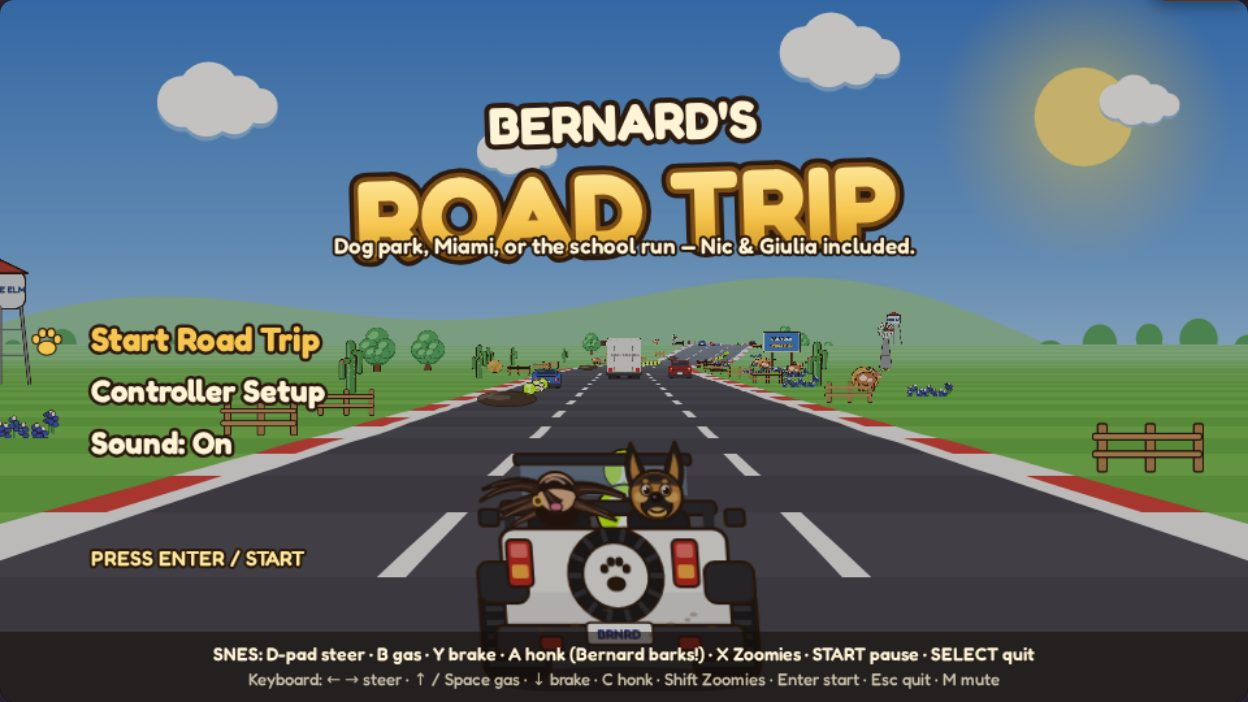
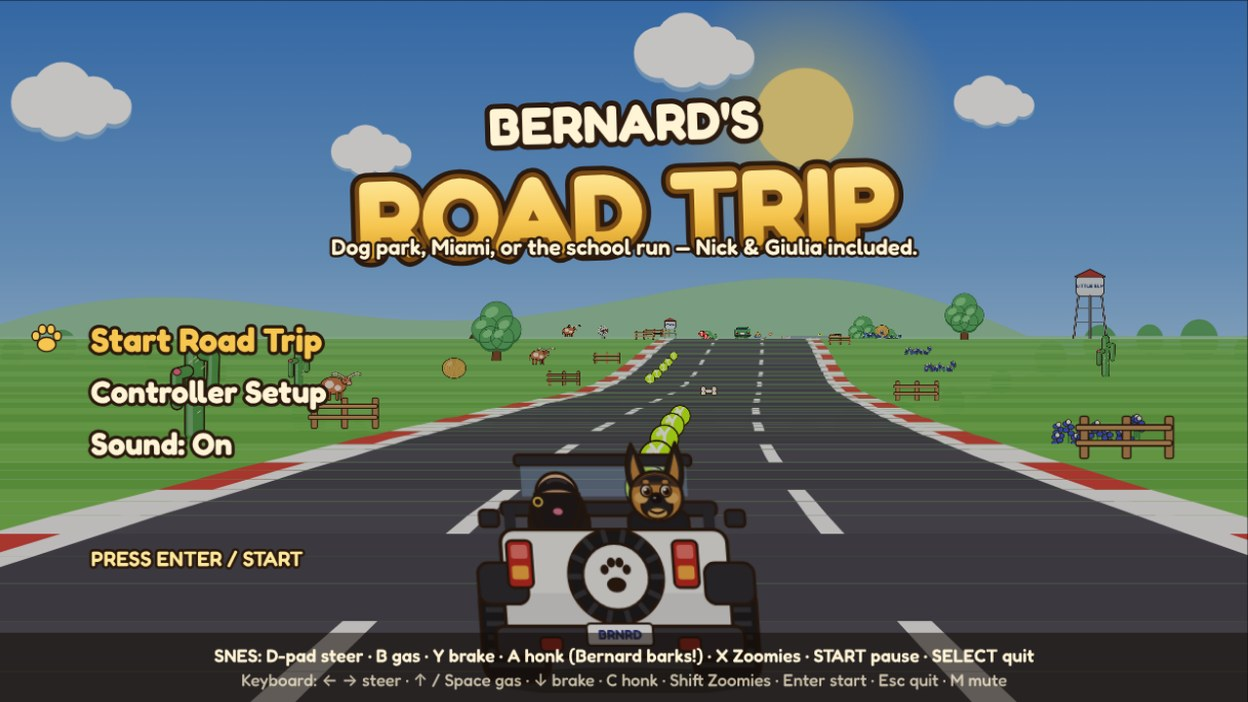
Modern arcade makeover for the home carousel; new Road Trip card; no glare button
- Home screen restyled from the pink/teal neon (Miami) look to a modern
  arcade: graphite hall with an LED dot-matrix wall, soft spotlight beams,
  a light-grid stage floor with a colour strip at the horizon, a Bungee
  marquee with 1P / FREE PLAY tags and EQ-bar LEDs, an RGB-ring avatar,
  and launcher cards with a per-game accent colour, a gradient edge on the
  selected game and a blinking PRESS B TO PLAY pill. Selector dots became
  a segment bar; corner buttons and the controller legend match.
- Effects chosen to be cheap to draw (no per-frame full-screen repaints):
  measured faster than the old lobby. Plain fallbacks for older browsers.
- Road Trip card image re-shot from the current title screen ("Nick",
  no mud puddles).
- Removed the Glare on/off button (left over from an older game).

Claude-Session: https://claude.ai/code/session_017biUWvTQKGySgvkp4fXPyP

diff --git a/styles.css b/styles.css
@@ -803,3 +803,202 @@ body.touch{
 }
 .storydots i.on{background:#c9f24d;box-shadow:0 0 10px #c9f24d}
 
+
+/* =====================================================================
+   MODERN ARCADE LOBBY (Oct 2026)
+   Graphite hall, LED video-wall texture, a glossy light-grid floor and
+   sharp launcher cards with an animated RGB edge on the selected game.
+   Replaces the pink/teal neon (Miami) look. Everything here is CSS: no photo.
+   ===================================================================== */
+:root{
+  --ar-ink:#05070d; --ar-panel:#0d1220; --ar-edge:rgba(160,185,255,.14);
+  --ar-cy:#2de2ff; --ar-lime:#c6ff3d; --ar-sun:#ffd23f; --ar-hot:#ff3d7f; --ar-vi:#9d6bff;
+  --ar-label:"Press Start 2P", ui-monospace, monospace;
+  --ar-sign:Bungee, Fredoka, system-ui, sans-serif;
+}
+@property --ar-ang{ syntax:"<angle>"; inherits:false; initial-value:0deg; }
+body{
+  background:
+    radial-gradient(80% 50% at 50% -10%, rgba(45,226,255,.10) 0%, transparent 60%),
+    radial-gradient(60% 40% at 50% 115%, rgba(157,107,255,.10) 0%, transparent 60%),
+    var(--ar-ink) !important;
+}
+#frame{
+  background:linear-gradient(180deg,#1b2131 0%,#10141f 45%,#0a0d15 100%) !important;
+  box-shadow:0 18px 0 #03040a, 0 28px 50px rgba(0,0,0,.75), 0 0 0 1px rgba(255,255,255,.05),
+             inset 0 1px 0 rgba(255,255,255,.12) !important;
+}
+#frame .stud{ background:radial-gradient(circle at 35% 30%,#8a93a8,#3a4152 60%,#161a24) !important; }
+#stage{ background:var(--ar-ink) !important; box-shadow:inset 0 0 0 1px rgba(255,255,255,.06), inset 0 10px 30px rgba(0,0,0,.6) !important; }
+
+/* ---- the hall */
+#home .scrim{
+  background:
+    conic-gradient(from 148deg at 12% -4%, transparent 0deg 10deg, rgba(45,226,255,.10) 13deg 19deg, transparent 23deg 360deg),
+    conic-gradient(from 193deg at 88% -4%, transparent 0deg 10deg, rgba(198,255,61,.08) 13deg 19deg, transparent 23deg 360deg),
+    conic-gradient(from 170deg at 50% -8%, transparent 0deg 12deg, rgba(157,107,255,.07) 15deg 21deg, transparent 24deg 360deg),
+    radial-gradient(46% 34% at 50% 56%, rgba(255,255,255,.06), transparent 70%),
+    radial-gradient(circle, rgba(130,165,255,.16) 1.1px, transparent 1.8px) 0 0/11px 11px,
+    linear-gradient(180deg,#0d1222 0%,#090c18 60%,#04050a 100%) !important;
+  overflow:hidden;
+}
+/* light-grid floor in perspective, drifting slowly toward you */
+#home .scrim::before{
+  content:""; position:absolute; inset:auto -60% -2% -60%; height:66%;
+  background-image:
+    linear-gradient(rgba(45,226,255,.55) 2px, transparent 2px),
+    linear-gradient(90deg, rgba(45,226,255,.42) 2px, transparent 2px),
+    linear-gradient(180deg, rgba(45,226,255,.10), rgba(4,5,10,.2));
+  background-size:100% 46px, 72px 100%, 100% 100%;
+  background-position:0 0, 50% 0, 0 0;
+  transform:perspective(700px) rotateX(55deg); transform-origin:50% 100%;
+  -webkit-mask-image:linear-gradient(180deg, transparent 0%, rgba(0,0,0,.55) 22%, #000 70%); mask-image:linear-gradient(180deg, transparent 0%, rgba(0,0,0,.55) 22%, #000 70%);
+  opacity:.9; animation:none !important;
+}
+@keyframes arFloor{ from{ background-position:0 0, 50% 0, 0 0 } to{ background-position:0 46px, 50% 0, 0 0 } }
+/* the floor's far edge glows where it meets the wall */
+/* LED light bars on the back wall: a horizon strip and two side uprights */
+#home .scrim::after{
+  content:""; position:absolute; inset:0; transform:none !important; opacity:1 !important; animation:none !important;
+  background:
+    linear-gradient(90deg, transparent 4%, rgba(45,226,255,.0) 10%, rgba(45,226,255,.55) 30%, rgba(198,255,61,.55) 50%, rgba(255,210,63,.55) 70%, rgba(45,226,255,0) 90%, transparent 96%) 0 79.5%/100% 2px no-repeat,
+    linear-gradient(90deg, transparent, rgba(45,226,255,.10) 30%, rgba(198,255,61,.10) 50%, rgba(255,210,63,.10) 70%, transparent) 0 78.6%/100% 30px no-repeat,
+    linear-gradient(180deg, transparent 8%, rgba(45,226,255,.5) 30%, rgba(157,107,255,.5) 60%, transparent 90%) 3.5% 0/3px 100% no-repeat,
+    linear-gradient(180deg, transparent 8%, rgba(255,61,127,.45) 30%, rgba(255,210,63,.5) 60%, transparent 90%) 96.5% 0/3px 100% no-repeat;
+}
+@keyframes arBars{ 0%,100%{ opacity:.85 } 50%{ opacity:1 } }
+.spill{ top:50%; width:62%; height:62%; filter:blur(10px); opacity:.95; }
+.motes i{ border-radius:1px !important; background:rgba(150,230,255,.7) !important; box-shadow:0 0 6px rgba(45,226,255,.7) !important; }
+.motes i:nth-child(3n){ background:rgba(198,255,61,.7) !important; box-shadow:0 0 6px rgba(198,255,61,.7) !important; }
+.motes i:nth-child(4n){ background:rgba(255,210,63,.75) !important; box-shadow:0 0 6px rgba(255,210,63,.7) !important; }
+
+/* ---- edge LEDs (were round bulbs) */
+.chase i{ width:9px !important; height:3px !important; border-radius:2px !important; background:#151b2b !important; box-shadow:none !important; }
+.chase i.on{ background:var(--ar-cy) !important; box-shadow:0 0 8px var(--ar-cy), 0 0 14px rgba(45,226,255,.5) !important; }
+
+/* ---- the sign */
+.marquee{
+  background:linear-gradient(180deg,#121829,#0a0e19) !important;
+  border:1px solid rgba(255,255,255,.08) !important; border-bottom:3px solid var(--ar-sun) !important;
+  border-radius:14px !important; padding:9px 18px 8px !important; gap:16px !important;
+  box-shadow:0 0 0 1px rgba(45,226,255,.22), 0 10px 26px rgba(0,0,0,.6), 0 6px 22px rgba(255,210,63,.18) !important;
+  animation:none !important;
+}
+.marquee::before,.marquee::after{
+  font:400 9px/1 var(--ar-label); letter-spacing:.12em; padding:6px 8px; border-radius:6px; white-space:nowrap;
+  background:rgba(255,255,255,.04); border:1px solid rgba(255,255,255,.08);
+}
+.marquee::before{ content:"\25CF 1P"; color:var(--ar-lime); animation:arBlink 1.4s steps(2,end) infinite; }
+.marquee::after{ content:"FREE PLAY"; color:var(--ar-sun); }
+@keyframes arBlink{ 50%{ opacity:.35 } }
+.marquee .t{
+  font-family:var(--ar-sign) !important; font-weight:400 !important; letter-spacing:.04em !important;
+  font-size:clamp(17px,3.1vw,30px) !important; color:#f4f7ff !important; -webkit-text-stroke:0 !important;
+  text-shadow:0 0 18px rgba(45,226,255,.35), 0 2px 0 #000 !important; animation:none !important; filter:none !important;
+}
+.marquee .t span{
+  background:linear-gradient(180deg,#fff1a6 0%,var(--ar-sun) 45%,#ff8a1f 100%); -webkit-background-clip:text; background-clip:text;
+  color:transparent !important; text-shadow:none !important; filter:drop-shadow(0 0 10px rgba(255,190,40,.45));
+}
+.marquee .bulbs{ gap:5px !important; }
+.marquee .bulbs i{ width:6px !important; height:14px !important; border-radius:2px !important; animation:arEq 1.1s ease-in-out infinite !important; box-shadow:0 0 8px currentColor !important; }
+.marquee .bulbs i:nth-child(1){ background:var(--ar-cy) !important; color:var(--ar-cy); animation-delay:0s !important }
+.marquee .bulbs i:nth-child(2){ background:var(--ar-lime) !important; color:var(--ar-lime); animation-delay:.15s !important }
+.marquee .bulbs i:nth-child(3){ background:var(--ar-sun) !important; color:var(--ar-sun); animation-delay:.3s !important }
+.marquee .bulbs i:nth-child(4){ background:var(--ar-hot) !important; color:var(--ar-hot); animation-delay:.45s !important }
+@keyframes arEq{ 0%,100%{ transform:scaleY(.45) } 50%{ transform:scaleY(1) } }
+
+/* ---- the proprietor: player avatar with a spinning RGB ring */
+.star::before{
+  content:""; position:absolute; left:50%; top:-5px; width:92px; height:92px; margin-left:-46px; border-radius:50%; z-index:-1;
+  background:conic-gradient(var(--ar-cy), var(--ar-lime), var(--ar-sun), var(--ar-hot), var(--ar-vi), var(--ar-cy));
+  animation:arRot 4s linear infinite; box-shadow:0 0 14px rgba(45,226,255,.45); will-change:transform;
+}
+@keyframes arRot{ to{ transform:rotate(360deg) } }
+@keyframes arSpin{ to{ --ar-ang:360deg } }
+.star img{ width:82px !important; height:82px !important; max-width:82px; max-height:82px; border:4px solid #0a0e19 !important; box-shadow:0 10px 24px rgba(0,0,0,.6) !important; }
+.star figcaption{ font:400 8px/1 var(--ar-label) !important; letter-spacing:.18em !important; color:#9fb0d6 !important; margin-top:10px !important; text-shadow:none !important; }
+
+/* ---- cards: per-game accent */
+#pickFlap{--acc:#3ab8ff} #pickHop{--acc:#8be24a} #pickAir{--acc:#ff4d6d}
+#pickMemo{--acc:#a66bff} #pickCups{--acc:#ffa53a} #pickBrt{--acc:#ffd23f}
+.lobby > .carousel .pick.cab{
+  border-radius:18px !important; background:#0b0f1c !important;
+  box-shadow:0 0 0 1px rgba(255,255,255,.09), 0 20px 40px rgba(0,0,0,.6) !important;
+}
+.pick.cab .cab-bezel{
+  border-radius:18px !important; z-index:3;
+  box-shadow:inset 0 0 0 1px rgba(255,255,255,.14), inset 0 -60px 50px rgba(0,0,0,.35) !important;
+  background:linear-gradient(155deg, rgba(255,255,255,.16) 0%, rgba(255,255,255,0) 28%) !important;
+}
+.pick.cab.is-center{
+  box-shadow:0 0 0 1px rgba(255,255,255,.18), 0 0 46px rgba(45,226,255,.35), 0 26px 50px rgba(0,0,0,.7) !important;
+  box-shadow:0 0 0 1px rgba(255,255,255,.18), 0 0 46px color-mix(in srgb, var(--acc) 55%, transparent), 0 26px 50px rgba(0,0,0,.7) !important;
+}
+/* animated RGB edge on the selected card */
+.pick.cab.is-center .cab-bezel{
+  border:3px solid transparent;
+  background:
+    linear-gradient(155deg, rgba(255,255,255,.16) 0%, rgba(255,255,255,0) 28%) padding-box,
+    linear-gradient(135deg, #fff 0%, var(--acc) 30%, var(--ar-cy) 65%, var(--acc) 100%) border-box !important;
+  -webkit-mask:linear-gradient(#000 0 0) padding-box, linear-gradient(#000 0 0);
+  -webkit-mask-composite:xor; mask-composite:exclude;
+  animation:none;
+}
+.pick.cab.is-center::after{ box-shadow:inset 0 0 22px rgba(45,226,255,.35) !important; box-shadow:inset 0 0 22px color-mix(in srgb, var(--acc) 45%, transparent) !important; animation:arPulse 1.6s ease-in-out infinite !important; will-change:opacity; }
+@keyframes arPulse{ 0%,100%{ opacity:.35 } 50%{ opacity:1 } }
+.pick.gp-focus::after{ box-shadow:none !important; }
+.pick .badge{
+  font:400 8px/1 var(--ar-label) !important; letter-spacing:.08em !important; padding:6px 8px !important; border-radius:6px !important;
+  background:var(--acc,#c9f24d) !important; color:#06080f !important; box-shadow:0 2px 10px rgba(0,0,0,.4) !important; box-shadow:0 2px 10px color-mix(in srgb, var(--acc) 60%, transparent) !important;
+  top:12px !important; left:12px !important;
+}
+.pick .best{
+  font:400 8px/1 var(--ar-label) !important; padding:6px 8px !important; border-radius:6px !important; top:12px !important; right:12px !important;
+  color:var(--ar-sun) !important; background:rgba(5,7,13,.78) !important; border:1px solid rgba(255,210,63,.35) !important; text-shadow:none !important;
+}
+.pick .best:empty{ display:none }
+.pick .cap{ background:linear-gradient(180deg, rgba(5,7,13,0) 0%, rgba(5,7,13,.82) 40%, rgba(5,7,13,.96) 100%) !important; padding:34px 14px 14px !important; z-index:2; }
+.pick .nm, .pick .cap .nm{
+  color:#fff !important; -webkit-text-stroke:0 !important; font-weight:700 !important;
+  text-shadow:0 2px 0 rgba(0,0,0,.6) !important;
+  text-shadow:0 2px 0 rgba(0,0,0,.6), 0 0 18px color-mix(in srgb, var(--acc) 40%, transparent) !important;
+}
+.pick .sub{ color:#b4c2e2 !important; }
+.pick.cab .cap::before{ /* accent rule above the title */
+  content:""; display:block; width:34px; height:3px; border-radius:2px; margin-bottom:8px; background:var(--acc); box-shadow:0 0 10px var(--acc);
+}
+.pick.cab.is-center .cap::after{
+  content:"\25B6  PRESS B TO PLAY"; display:inline-block; margin-top:10px; padding:7px 10px; border-radius:7px;
+  font:400 8px/1 var(--ar-label); letter-spacing:.1em; color:#06080f; background:var(--ar-lime);
+  box-shadow:0 0 14px rgba(198,255,61,.55); animation:arBlink 1.2s steps(2,end) infinite;
+}
+.pick .ribbon{ background:linear-gradient(90deg,var(--ar-lime),var(--ar-sun)) !important; color:#06080f !important; font:400 8px/1 var(--ar-label) !important; padding:7px 8px !important; box-shadow:0 0 18px rgba(198,255,61,.5) !important; }
+
+/* ---- selector bar (was dots) */
+.car-dots{ gap:6px !important; height:14px !important; }
+.car-dots button{ width:26px !important; height:5px !important; border-radius:3px !important; background:rgba(255,255,255,.14) !important; box-shadow:none !important; }
+.car-dots button.on{ width:46px !important; background:var(--ar-cy) !important; box-shadow:0 0 12px var(--ar-cy) !important; }
+
+/* ---- controller legend */
+.snesbar{ color:#a9b6d4 !important; font-size:12px !important; text-shadow:none !important; gap:10px 14px !important; }
+.snesbar > span{ display:inline-flex; align-items:center; padding:4px 10px 4px 5px; border-radius:10px; background:rgba(255,255,255,.04); border:1px solid rgba(255,255,255,.07); }
+.snesbar .k{ font:400 7px/1 var(--ar-label) !important; letter-spacing:.06em !important; }
+.snesbar .k.dpad, .snesbar .k.start, .snesbar .k.sel{ background:#161c2c !important; color:#dfe6f7 !important; border:1px solid #2a3350 !important; border-radius:6px !important; }
+.snesbar .k.b{ background:#e0453a !important; border:0 !important; }
+.snesbar .k.a{ background:#8a5ad0 !important; border:0 !important; }
+.phonebar{ color:#a9b6d4 !important; text-shadow:none !important; }
+
+/* ---- corner buttons */
+.fs-btn, .trailer-link{
+  font:600 13px Fredoka, system-ui, sans-serif !important; color:#e8eeff !important; letter-spacing:.03em !important;
+  background:rgba(13,18,32,.82) !important; border:1px solid rgba(45,226,255,.45) !important; border-radius:10px !important;
+  box-shadow:0 0 14px rgba(45,226,255,.2), 0 6px 14px rgba(0,0,0,.4) !important; padding:7px 12px !important; backdrop-filter:blur(4px);
+}
+.fs-btn:active{ transform:translateY(1px); }
+footer, .snesfoot{ color:#8f9bb8 !important; }
+.icon-btn{ background:rgba(255,255,255,.06) !important; color:#dfe6f7 !important; border:1px solid rgba(255,255,255,.12) !important; border-radius:10px !important; }
+#padChip{ color:#8f9bb8 !important; }
+#padChip.live{ color:var(--ar-lime) !important; border-color:rgba(198,255,61,.45) !important; }
+@media (max-width:820px){ #frame{ box-shadow:0 10px 0 #03040a, 0 16px 28px rgba(0,0,0,.6) !important; } .marquee::before,.marquee::after{ display:none } }
+@media (prefers-reduced-motion:reduce){ #home .scrim::before, #home .scrim::after, .star::before, .pick.cab.is-center .cab-bezel, .marquee .bulbs i{ animation:none !important } }

diff --git a/arcade.js b/arcade.js
@@ -620,7 +620,7 @@ function uiBack(){ const sc=gpScreen(); if (sc==="pause") quitToArcade(); else i
 const CAR = {
   items:["pickFlap","pickHop","pickAir","pickMemo","pickCups","pickBrt"],
   flashKey:{pickFlap:"flap", pickHop:"hop", pickAir:"air", pickBallies:"ballies", pickMemo:"memo", pickCups:"cups", pickCatch:"catch", pickBba:"bba", pickBrt:"brt"},
-  spill:{pickFlap:"rgba(80,190,255,.32)", pickHop:"rgba(110,220,90,.30)", pickAir:"rgba(255,90,160,.32)", pickBallies:"rgba(255,207,58,.30)", pickMemo:"rgba(170,110,255,.32)", pickCups:"rgba(255,180,60,.36)", pickCatch:"rgba(255,140,60,.34)", pickBba:"rgba(90,190,255,.34)", pickBrt:"rgba(255,140,60,.36)"},
+  spill:{pickFlap:"rgba(58,184,255,.34)", pickHop:"rgba(139,226,74,.30)", pickAir:"rgba(255,77,109,.32)", pickBallies:"rgba(255,207,58,.30)", pickMemo:"rgba(166,107,255,.36)", pickCups:"rgba(255,165,58,.34)", pickCatch:"rgba(255,140,60,.34)", pickBba:"rgba(90,190,255,.34)", pickBrt:"rgba(255,210,63,.32)"},
   index:0, pos:0, vel:0, target:0, bounce:0,
   tiltX:0, tiltY:0, wantTiltX:0, wantTiltY:0,
   drag:null, lastIdx:-1, chaseT:0, ready:false
@@ -10320,11 +10320,6 @@ document.getElementById("soundBtn").addEventListener("click",e=>{
   e.target.setAttribute("aria-pressed",String(audioOn));
   if (audioOn && homeEl.classList.contains("on")) menuHumStart();
   else menuHumStop();
-});
-document.getElementById("glareBtn").addEventListener("click",e=>{
-  glare=!glare;
-  e.target.textContent="Glare: "+(glare?"on":"off");
-  e.target.setAttribute("aria-pressed",String(glare));
 });
 
 let FS_SOFT=false;

diff --git a/arcade.html b/arcade.html
@@ -10,6 +10,7 @@
 <link rel="preconnect" href="https://fonts.googleapis.com">
 <link rel="preconnect" href="https://fonts.gstatic.com" crossorigin>
 <link href="https://fonts.googleapis.com/css2?family=Fredoka:wght@400;500;600;700&display=swap" rel="stylesheet">
+<link href="https://fonts.googleapis.com/css2?family=Bungee&family=Press+Start+2P&display=swap" rel="stylesheet">
 <link rel="stylesheet" href="https://fonts.googleapis.com/css2?family=Fredoka:wght@500;600;700&display=swap">
 <link rel="stylesheet" href="styles.css">
 <style>
@@ -363,7 +364,6 @@
     <span class="snesfoot">SNES: D-pad choose &nbsp;&middot;&nbsp; B / A play &nbsp;&middot;&nbsp; START pause &nbsp;&middot;&nbsp; SELECT back</span>
     <span class="btns">
       <span id="padChip">No controller</span>
-      <button class="icon-btn" id="glareBtn" aria-pressed="true">Glare: on</button>
       <button class="icon-btn" id="soundBtn" aria-pressed="true">Sound: on</button>
     </span>
   </footer>

diff --git a/index.html b/index.html
@@ -10,6 +10,7 @@
 <link rel="preconnect" href="https://fonts.googleapis.com">
 <link rel="preconnect" href="https://fonts.gstatic.com" crossorigin>
 <link href="https://fonts.googleapis.com/css2?family=Fredoka:wght@400;500;600;700&display=swap" rel="stylesheet">
+<link href="https://fonts.googleapis.com/css2?family=Bungee&family=Press+Start+2P&display=swap" rel="stylesheet">
 <link rel="stylesheet" href="https://fonts.googleapis.com/css2?family=Fredoka:wght@500;600;700&display=swap">
 <link rel="stylesheet" href="styles.css">
 <style>
@@ -363,7 +364,6 @@
     <span class="snesfoot">SNES: D-pad choose &nbsp;&middot;&nbsp; B / A play &nbsp;&middot;&nbsp; START pause &nbsp;&middot;&nbsp; SELECT back</span>
     <span class="btns">
       <span id="padChip">No controller</span>
-      <button class="icon-btn" id="glareBtn" aria-pressed="true">Glare: on</button>
       <button class="icon-btn" id="soundBtn" aria-pressed="true">Sound: on</button>
     </span>
   </footer>
